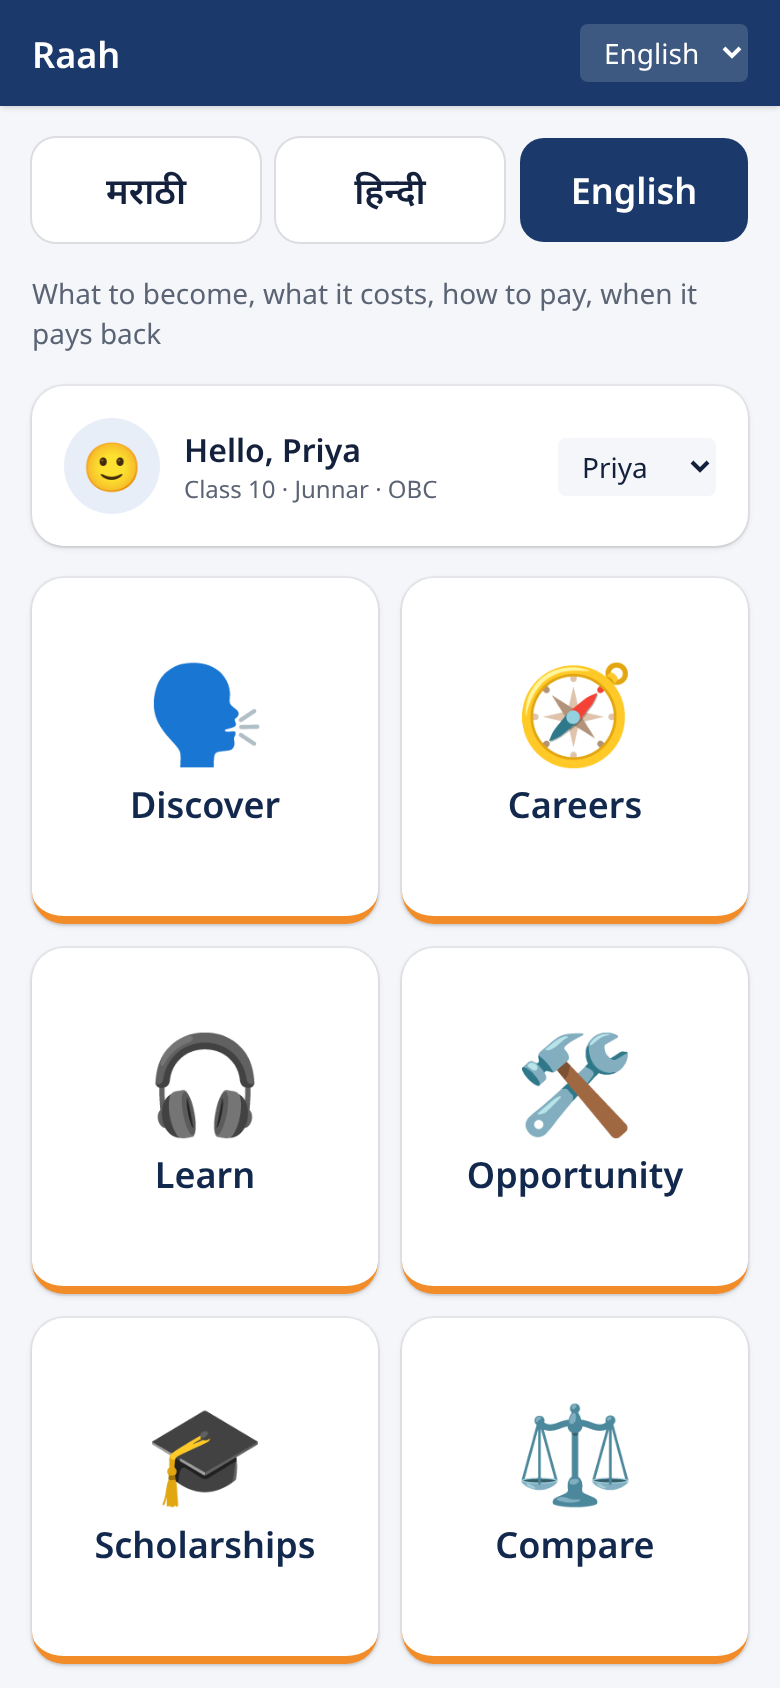
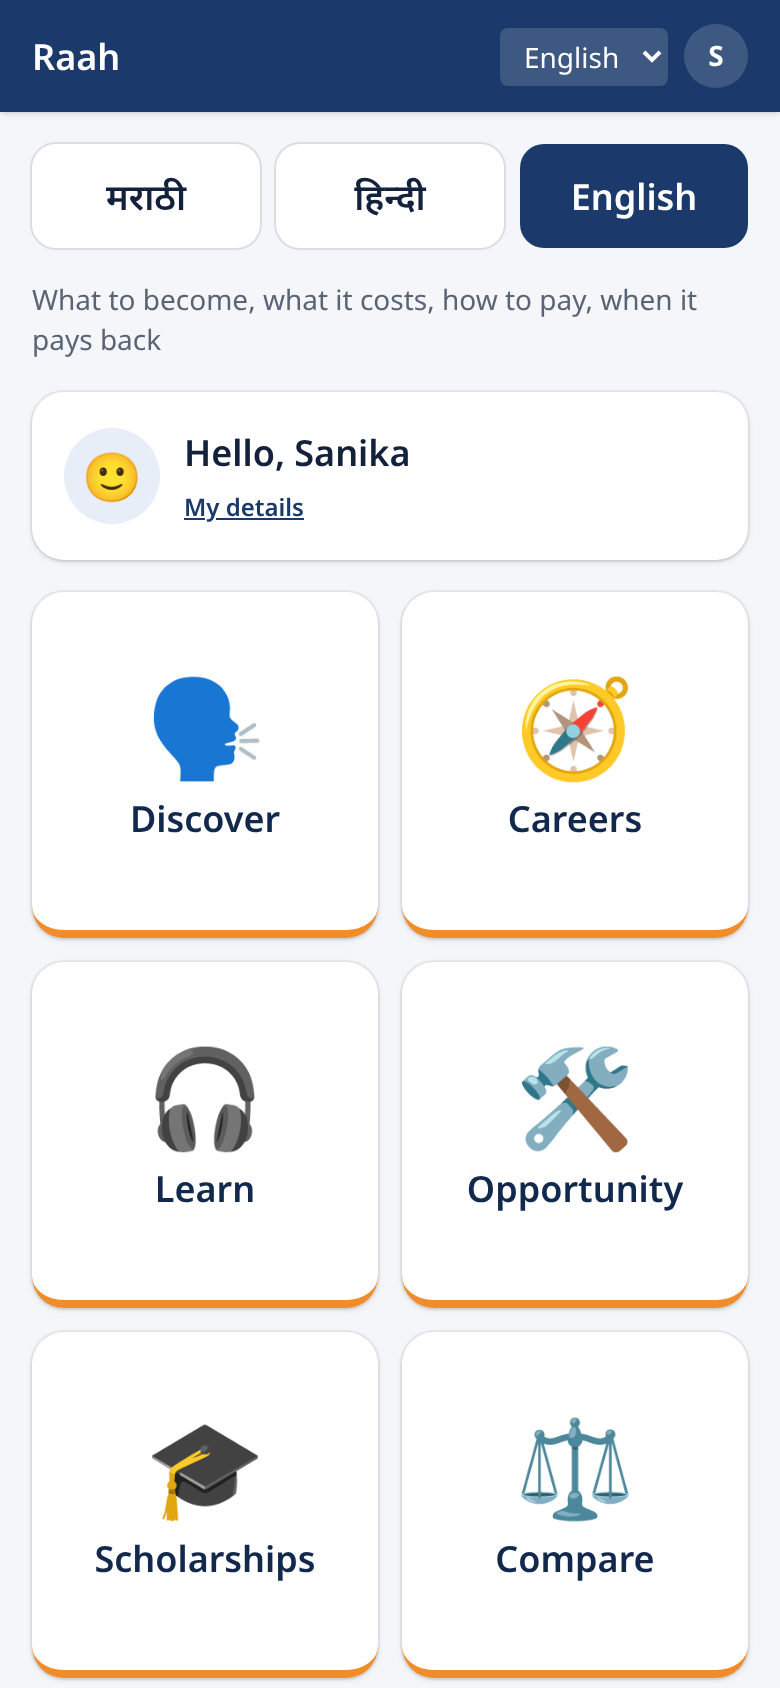
Document register, sign in and the PostgreSQL setup

diff --git a/README.md b/README.md
@@ -175,24 +175,26 @@ payback       = first month after training where cumulative gain ≥ net_cost
 
 Students and teachers sign in with their mobile number and a one-time password.
 
-<p align="center"><img src="docs/screenshots/login.png" width="240" alt="Login screen with student and teacher roles"></p>
+<p align="center"><img src="docs/screenshots/login.png" width="240" alt="Register screen with name, mobile number and PIN"></p>
 
 | | Student | Teacher |
 |---|---|---|
-| Who can sign in | Anyone with a 10-digit Indian mobile number (account is created on first login) | Numbers listed in `RAAH_TEACHER_PHONES` |
+| Who can register | Anyone with a 10-digit Indian mobile number | Only numbers listed in `RAAH_TEACHER_PHONES` |
 | Screens | Discover, Careers, plans, Compare, Scholarships, Learn, Opportunity, Profile | Everything a student sees, plus Class dashboard and Money |
 | Server access | Own profile, own synced activity, own AA consent | Class data, bulk recommend, pain.001 payouts and ledger, any consent |
 
-- **OTP:** 6 digits, stored only as a salted SHA-256 hash, valid for 5 minutes, single use, 5 wrong tries lock it, and at most 3 requests per number every 10 minutes.
-- **Sandbox mode:** with `SMS_PROVIDER` empty, the OTP is `RAAH_SANDBOX_OTP` (default `123456`) and the login screen shows it. Add an SMS gateway in `_send_sms` in `backend/raah/auth.py` for real delivery.
-- **Tokens:** HS256 JWT signed with `RAAH_SIGNING_KEY`, carrying the user id and role, valid for `RAAH_TOKEN_TTL_DAYS` (default 30) so a signed-in student keeps working offline. A rejected token signs the app out.
-- **Storage:** users, OTP challenges, saved profiles and synced activity live in SQLite at `RAAH_DB` (default `backend/data/raah.db`).
+- **Register, then sign in:** the first screen has **Register** (full name, mobile number, PIN typed twice) and **Sign in** (mobile number and PIN). After registering, the app moves to Sign in with the number filled in. After signing in, the home screen and the Discover chat greet the person by the name they registered with; demo students are never used as a student's identity (teachers can still preview them).
+- **Why a PIN, not a password:** most users type on a phone number pad, often in Marathi or Hindi. A 4 to 6 digit PIN works the same in every language and is familiar from ATM and UPI. Easy PINs (`1111`, `1234`, `9876`) are refused.
+- **PIN storage and lockout:** PINs are hashed with Argon2id (never stored or logged in plain text). 5 wrong PINs lock the account for 15 minutes; a correct PIN resets the count.
+- **Forgot PIN:** the teacher enters the student's number under "Student forgot their PIN" on the Class dashboard. That clears the PIN and the student registers again with the same number; their saved profile stays.
+- **Tokens:** HS256 JWT signed with `RAAH_SIGNING_KEY`, carrying the user id, role and registered name, valid for `RAAH_TOKEN_TTL_DAYS` (default 30) so a signed-in student keeps working offline. A rejected token signs the app out.
+- **Database:** PostgreSQL when `DATABASE_URL` is set, otherwise a SQLite file at `RAAH_DB` (default `backend/data/raah.db`) so `./run.sh` needs nothing installed. The schema lives in `backend/raah/db.py` and is created on startup; columns added later are added to an existing database automatically. The spec names "SQLModel + SQLite (Postgres optional)", so this keeps SQLite for the laptop demo and Postgres for a real deployment.
 - **Profile sync:** profile edits and offline actions are queued on the phone and saved to the account on reconnect; signing in on a new phone restores the profile.
 - **Delete my data:** removes the account, profile and synced activity on the server and clears the phone.
 - **Open endpoints:** `/api/data`, `/api/version`, `/api/plan`, `/api/eligibility`, `/api/careers` and `/api/centres` stay public because they only serve the published dataset and run the same maths the phone runs offline.
 - **Partners** use a separate OAuth2 client-credentials flow (below).
 
-Demo logins: any student number (e.g. `9876543210`), teacher `9000000001`, OTP `123456`.
+Try it: register as a student with any mobile number. To try the teacher screens, register as a teacher with `9000000001` (the default `RAAH_TEACHER_PHONES`).
 
 ## AI conversation
 
@@ -273,6 +275,19 @@ cp backend/.env.example backend/.env      # optional: BHASHINI keys, signing key
 
 Open <http://localhost:8000>. On a phone connected to the same Wi-Fi, open `http://<laptop-ip>:8000` and use "Add to Home screen" to install it.
 
+### Using PostgreSQL
+
+The app runs on a SQLite file out of the box. To use PostgreSQL instead:
+
+```bash
+# once: create a database (or use a hosted one such as Neon, Supabase or RDS)
+createdb raah
+# backend/.env
+DATABASE_URL=postgresql://USER:PASSWORD@localhost:5432/raah
+```
+
+Restart the backend; the tables are created on first start. `postgres://` URLs from hosting providers work as they are.
+
 By default the backend looks for `raah-dataset.xlsx` in the repository root or the folder above it. Point it anywhere with `RAAH_DATASET=/path/to/raah-dataset.xlsx`.
 
 ### Working on the web app
@@ -320,7 +335,8 @@ Interactive OpenAPI docs: <http://localhost:8000/docs>
 | `POST /api/mentors/{id}/request` · `GET /api/mentors/mine` · `GET /api/mentors/requests` | Accept-to-reveal mentor contact; teacher view of connections |
 | `POST /api/modules` · `GET /api/modules/mine` · `GET /api/modules/earnings` · `POST /api/modules/earnings/payout` | Teacher module builder, earnings and pain.001 payout |
 | `GET /api/modules` · `POST /api/modules/{id}/enrol` · `POST /api/modules/{id}/complete` | Student enrolment and quiz completion |
-| `POST /api/auth/otp/request` · `POST /api/auth/otp/verify` | Phone OTP login, returns a JWT |
+| `POST /api/auth/register` · `POST /api/auth/login` | Register (name, mobile, PIN, role), then sign in with mobile + PIN to get a JWT |
+| `POST /api/auth/reset-pin` | Teacher clears a student's forgotten PIN so they can register again |
 | `GET /api/auth/notifications` · `POST /api/auth/notifications/{id}/read` | Recommendations sent to the signed-in student |
 | `GET /api/auth/me` · `GET`/`PUT /api/auth/profile` · `DELETE /api/auth/me` | Account, saved profile, delete my data |
 | `POST /api/sync` | Actions queued while offline (signed in) |
@@ -340,7 +356,8 @@ backend/
     dataset.py      spreadsheet loader and text-to-number parsing, reload on save
     engine.py       eligibility, cost & payback, centres, career ranking
     main.py         FastAPI app, core routes, serves web/out
-    auth.py         phone OTP login, JWT roles, users and profiles in SQLite
+    auth.py         register and sign in with mobile + PIN, JWT roles, profiles
+    db.py           database schema; PostgreSQL via DATABASE_URL, SQLite file otherwise
     voice.py        BHASHINI ASR / TTS
     teacher.py      synthetic class, dropout model, bulk recommend
     money.py        pain.001, Account Aggregator mock, skills passport
@@ -371,10 +388,12 @@ run.sh
 cd backend
 pip install -r requirements.txt pytest
 RAAH_DATASET=../raah-dataset.xlsx python -m pytest -q tests
+# the same tests against PostgreSQL
+DATABASE_URL=postgresql://USER:PASSWORD@localhost:5432/raah_test python -m pytest -q tests
 ```
 
 - `test_parity.py`: Python and TypeScript engines agree on 105 scenarios (3 students × 7 plans × 5 what-if settings), including eligibility and ranking.
-- `test_auth.py`: OTP login, wrong-code lockout, single use, rate limit, teacher allowlist, role checks on teacher and money endpoints, consent ownership, profile sync and account deletion.
+- `test_auth.py`: register then sign in, registered name in the token and `/me`, Argon2 PIN hashing, duplicate and weak-PIN rejection, wrong-PIN countdown and lockout, teacher PIN reset, upgrading an old account, teacher allowlist, role checks on teacher and money endpoints, consent ownership, profile sync and account deletion.
 - `test_data_driven.py`: edits a copy of the spreadsheet (income limit, course fee, income, assumption) and checks the eligibility, cost, payback and cached data change accordingly.
 
 ## Data sources
